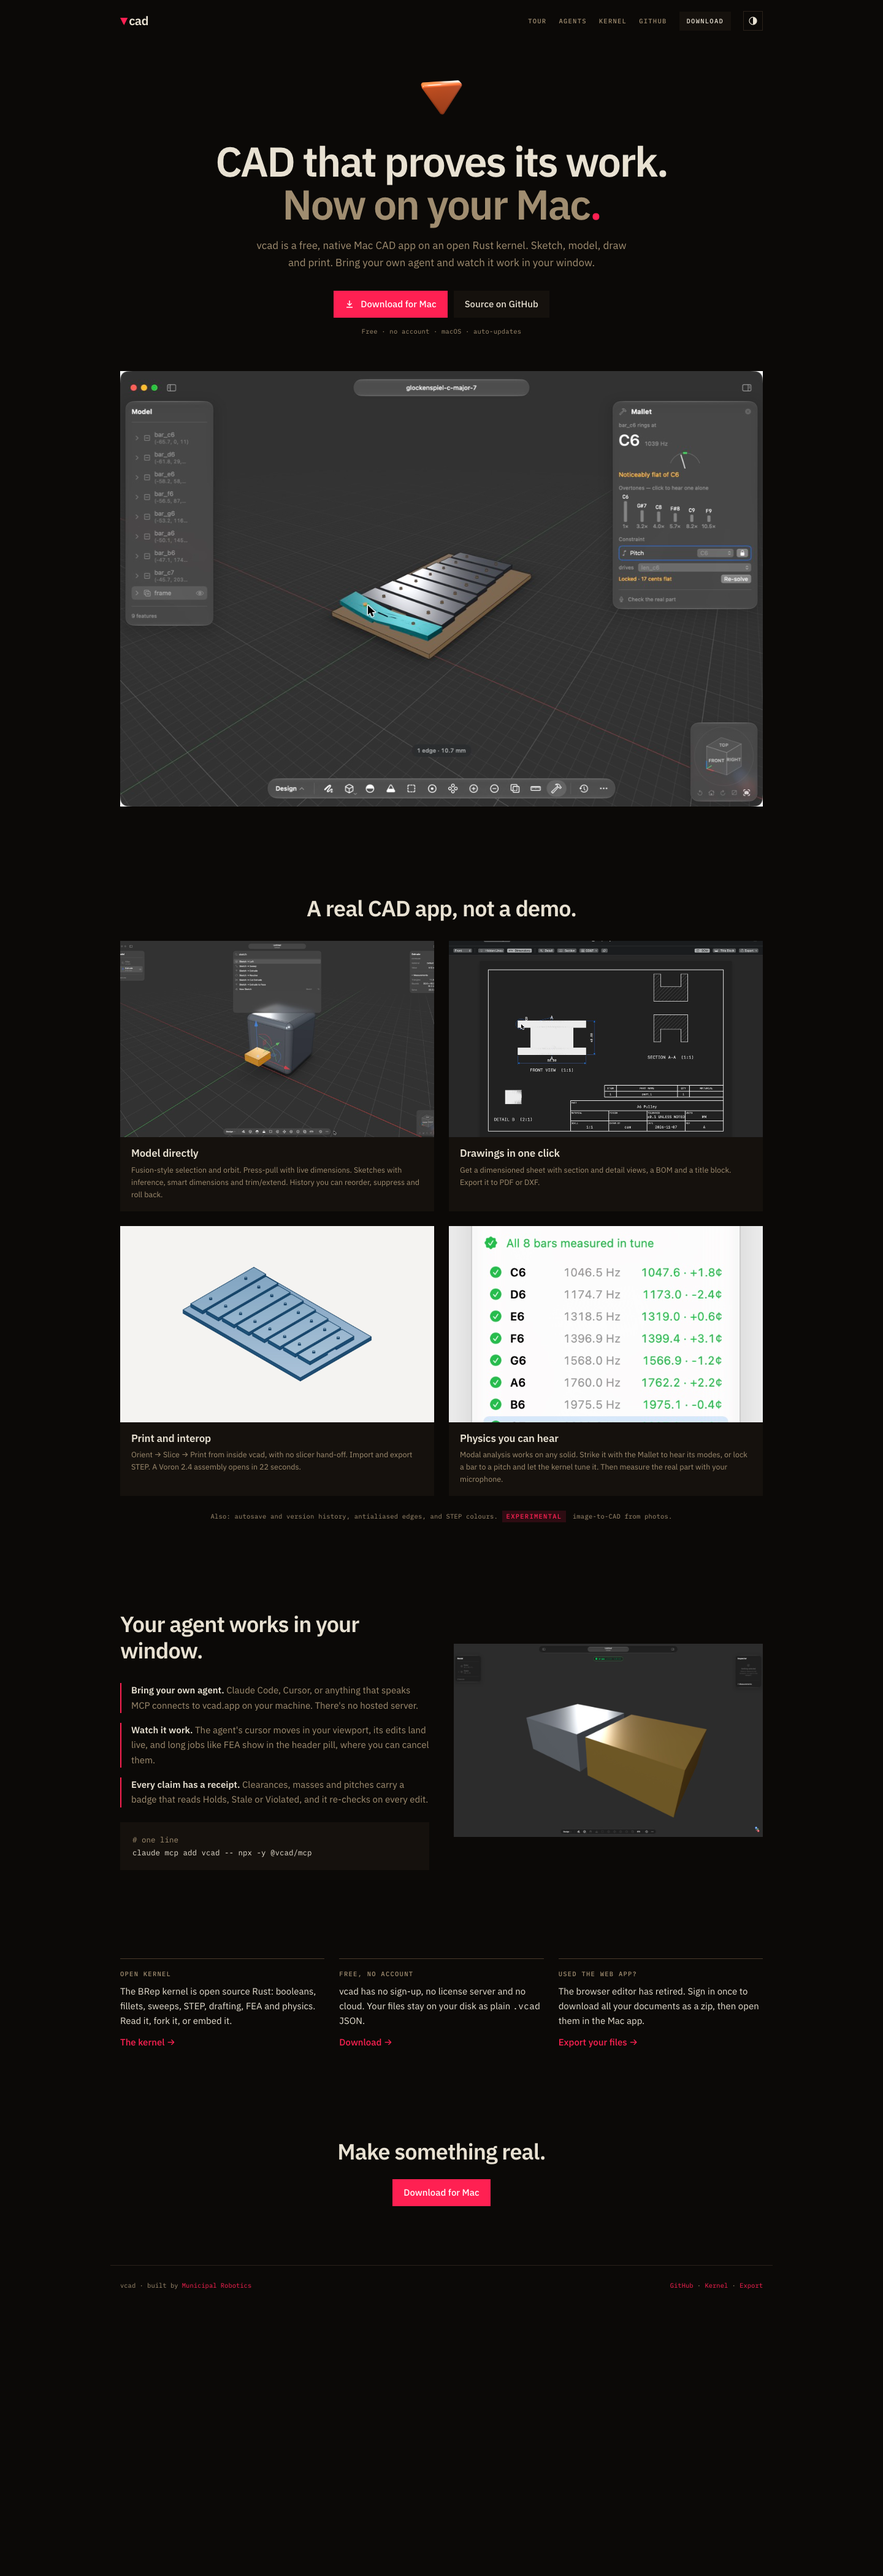
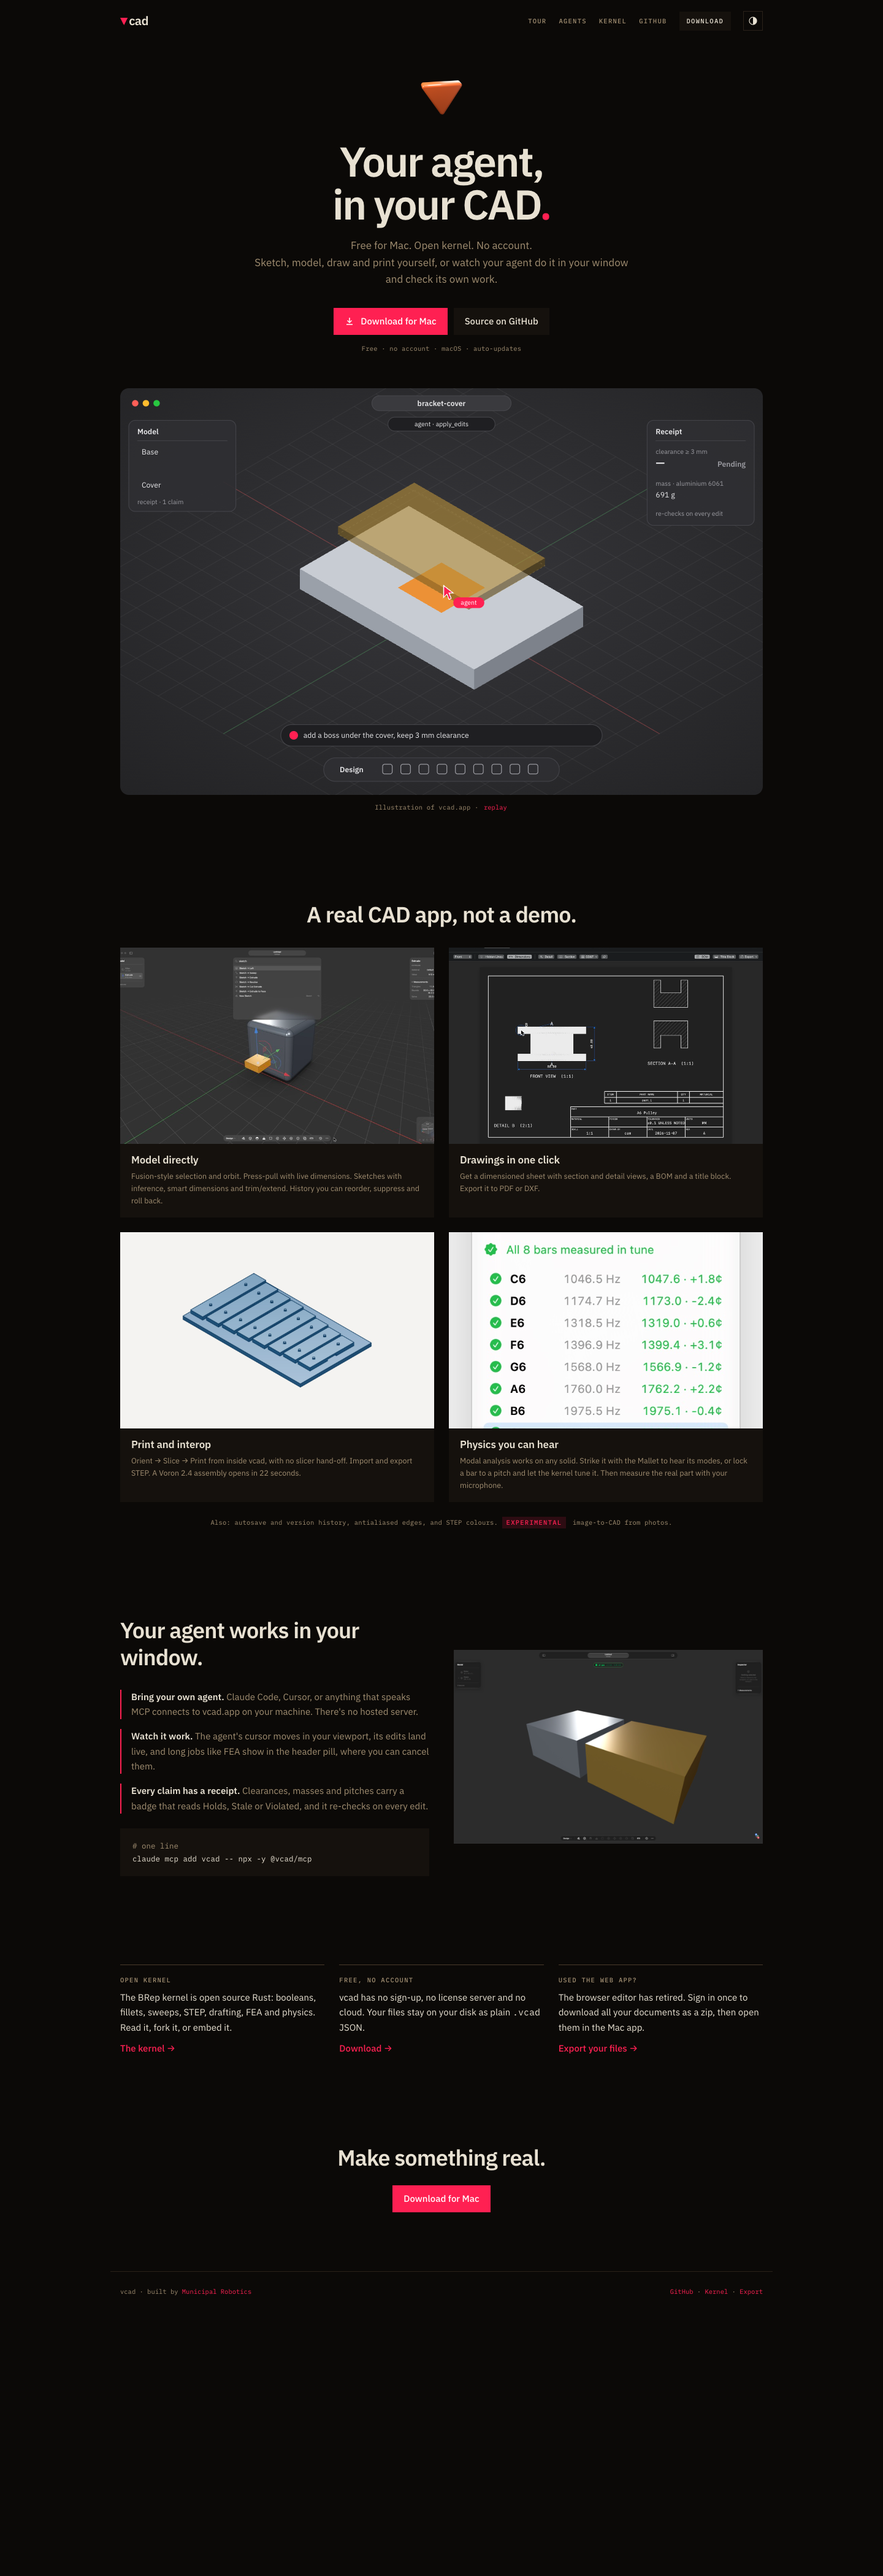
landing: new hook + interactive app hero
Headline is now "Your agent, in your CAD." with "Free for Mac. Open
kernel. No account." The hero screenshot becomes an SVG illustration of
vcad.app: the agent types a request, its cursor selects a face and
press-pulls a boss, and the clearance receipt checks. Then the viewer
drags the arrow (or uses the arrow keys) and the receipt flips between
Holds and Violated. Crops to the model on phones; respects reduced motion.

diff --git a/www/src/hero-app.js b/www/src/hero-app.js
@@ -1,0 +1,300 @@
+// Hero: an interactive illustration of vcad.app.
+// The agent types a request, its cursor selects the top face, press-pulls a boss,
+// and the clearance receipt checks. Then the viewer can drag the boss height
+// and watch the receipt flip between Holds and Violated. Pure SVG, no kernel.
+
+const svg = document.getElementById("heroSvg");
+if (svg) init(svg);
+
+function init(svg) {
+  const NS = "http://www.w3.org/2000/svg";
+  const reduced = matchMedia("(prefers-reduced-motion: reduce)").matches;
+  const el = (tag, attrs = {}, parent = svg, text) => {
+    const n = document.createElementNS(NS, tag);
+    for (const [k, v] of Object.entries(attrs)) n.setAttribute(k, v);
+    if (text != null) n.textContent = text;
+    parent.appendChild(n);
+    return n;
+  };
+
+  // ---- model (mm) --------------------------------------------------------
+  const BASE_H = 16, COVER_Z = 46, MIN_CLEAR = 3, H_MAX = 38, AGENT_H = 26;
+  const clearance = (h) => COVER_Z - (BASE_H + h);
+  const massG = (h) => (160 * 100 * BASE_H + 40 * 40 * h) * 2.7e-3; // aluminium
+
+  // ---- isometric projection ---------------------------------------------
+  const S = 2.35, CX = 600, CY = 410, C30 = Math.cos(Math.PI / 6), S30 = 0.5;
+  const P = (x, y, z) => [CX + (x - y) * C30 * S, CY + (x + y) * S30 * S - z * S];
+  const pts = (a) => a.map((p) => P(...p).map((v) => v.toFixed(1)).join(",")).join(" ");
+  function boxFaces(x, y, z, w, d, h) {
+    return {
+      top: pts([[x, y, z + h], [x + w, y, z + h], [x + w, y + d, z + h], [x, y + d, z + h]]),
+      right: pts([[x + w, y, z], [x + w, y + d, z], [x + w, y + d, z + h], [x + w, y, z + h]]),
+      front: pts([[x, y + d, z], [x + w, y + d, z], [x + w, y + d, z + h], [x, y + d, z + h]]),
+    };
+  }
+
+  // ---- chrome ------------------------------------------------------------
+  const defs = el("defs");
+  const grad = el("radialGradient", { id: "hvBg", cx: "50%", cy: "45%", r: "75%" }, defs);
+  el("stop", { offset: "0", "stop-color": "#36363a" }, grad);
+  el("stop", { offset: "1", "stop-color": "#232325" }, grad);
+  const clip = el("clipPath", { id: "hvClip" }, defs);
+  el("rect", { width: 1200, height: 760, rx: 14 }, clip);
+
+  const root = el("g", { "clip-path": "url(#hvClip)" });
+  el("rect", { width: 1200, height: 760, fill: "url(#hvBg)" }, root);
+
+  // ground grid (iso)
+  const grid = el("g", { stroke: "#ffffff", "stroke-opacity": 0.06, "stroke-width": 1 }, root);
+  for (let i = -200; i <= 200; i += 20) {
+    const [a, b] = [P(i, -200, -0.01), P(i, 200, -0.01)];
+    const [c, d] = [P(-200, i, -0.01), P(200, i, -0.01)];
+    el("line", { x1: a[0], y1: a[1], x2: b[0], y2: b[1] }, grid);
+    el("line", { x1: c[0], y1: c[1], x2: d[0], y2: d[1] }, grid);
+  }
+  { const [a, b] = [P(-200, 0, 0), P(200, 0, 0)]; el("line", { x1: a[0], y1: a[1], x2: b[0], y2: b[1], stroke: "#e5484d", "stroke-opacity": 0.45 }, root); }
+  { const [a, b] = [P(0, -200, 0), P(0, 200, 0)]; el("line", { x1: a[0], y1: a[1], x2: b[0], y2: b[1], stroke: "#46a758", "stroke-opacity": 0.45 }, root); }
+
+  // traffic lights + title pill
+  [["#ff5f57", 28], ["#febc2e", 48], ["#28c840", 68]].forEach(([c, x]) => el("circle", { cx: x, cy: 28, r: 6, fill: c }, root));
+  el("rect", { x: 470, y: 14, width: 260, height: 28, rx: 14, fill: "#3a3a3e", stroke: "#4a4a4f" }, root);
+  el("text", { x: 600, y: 33, "text-anchor": "middle", class: "hv-t hv-b" }, root, "bracket-cover");
+
+  // header pill (agent job)
+  const pill = el("g", { opacity: 0 }, root);
+  const pillBg = el("rect", { x: 500, y: 54, width: 200, height: 26, rx: 13, fill: "#1f1f22", stroke: "#4a4a4f" }, pill);
+  const pillTxt = el("text", { x: 600, y: 71, "text-anchor": "middle", class: "hv-t hv-s" }, pill, "");
+
+  // navigator
+  el("rect", { x: 16, y: 60, width: 200, height: 170, rx: 12, class: "hv-panel" }, root);
+  el("text", { x: 32, y: 86, class: "hv-t hv-b" }, root, "Model");
+  el("line", { x1: 32, y1: 98, x2: 200, y2: 98, stroke: "#4a4a4f" }, root);
+  el("text", { x: 40, y: 124, class: "hv-t" }, root, "Base");
+  const navBoss = el("g", { opacity: 0 }, root);
+  el("rect", { x: 28, y: 136, width: 176, height: 26, rx: 6, fill: "#4a4a50" }, navBoss);
+  el("text", { x: 40, y: 154, class: "hv-t" }, navBoss, "Boss");
+  const navBossDim = el("text", { x: 196, y: 154, "text-anchor": "end", class: "hv-t hv-s hv-dim" }, navBoss, "");
+  el("text", { x: 40, y: 186, class: "hv-t" }, root, "Cover");
+  el("text", { x: 32, y: 216, class: "hv-t hv-s hv-dim" }, root, "receipt · 1 claim");
+
+  // inspector / receipt
+  el("rect", { x: 984, y: 60, width: 200, height: 196, rx: 12, class: "hv-panel" }, root);
+  el("text", { x: 1000, y: 86, class: "hv-t hv-b" }, root, "Receipt");
+  el("line", { x1: 1000, y1: 98, x2: 1168, y2: 98, stroke: "#4a4a4f" }, root);
+  el("text", { x: 1000, y: 122, class: "hv-t hv-s hv-dim" }, root, "clearance ≥ 3 mm");
+  const recVal = el("text", { x: 1000, y: 146, class: "hv-t hv-big" }, root, "—");
+  const recState = el("text", { x: 1168, y: 146, "text-anchor": "end", class: "hv-t hv-b hv-dim" }, root, "Pending");
+  el("text", { x: 1000, y: 182, class: "hv-t hv-s hv-dim" }, root, "mass · aluminium 6061");
+  const massVal = el("text", { x: 1000, y: 204, class: "hv-t" }, root, "");
+  el("text", { x: 1000, y: 238, class: "hv-t hv-s hv-dim" }, root, "re-checks on every edit");
+
+  // viewport badge (top centre, like the live receipt badge)
+  const badge = el("g", { opacity: 0 }, root);
+  const badgeBg = el("rect", { x: 480, y: 96, width: 240, height: 28, rx: 14, fill: "none", "stroke-width": 1.5 }, badge);
+  const badgeTxt = el("text", { x: 600, y: 115, "text-anchor": "middle", class: "hv-t hv-b" }, badge, "");
+
+  // ---- parts -------------------------------------------------------------
+  const scene = el("g", {}, root);
+  const base = boxFaces(-80, -50, 0, 160, 100, BASE_H);
+  const baseTop = el("polygon", { points: base.top, fill: "#c8ccd3" }, scene);
+  el("polygon", { points: base.right, fill: "#7d828b" }, scene);
+  el("polygon", { points: base.front, fill: "#9aa0a9" }, scene);
+  const faceHi = el("polygon", { points: pts([[-20, -20, BASE_H], [20, -20, BASE_H], [20, 20, BASE_H], [-20, 20, BASE_H]]), fill: "#f08a24", opacity: 0 }, scene);
+
+  const boss = el("g", { opacity: 0 }, scene);
+  const bossTop = el("polygon", { fill: "#f5a04b" }, boss);
+  const bossRight = el("polygon", { fill: "#b8661b" }, boss);
+  const bossFront = el("polygon", { fill: "#d67d27" }, boss);
+
+  const cov = boxFaces(-60, -35, COVER_Z, 120, 70, 6);
+  const coverG = el("g", { opacity: 0.62 }, scene);
+  el("polygon", { points: cov.front, fill: "#7a5f22" }, coverG);
+  el("polygon", { points: cov.right, fill: "#5d4818" }, coverG);
+  el("polygon", { points: cov.top, fill: "#b38d3a" }, coverG);
+  // cover underside outline so the gap reads
+  el("polygon", { points: pts([[-60, -35, COVER_Z], [60, -35, COVER_Z], [60, 35, COVER_Z], [-60, 35, COVER_Z]]), fill: "none", stroke: "#d9b45a", "stroke-opacity": 0.5, "stroke-dasharray": "4 4" }, coverG);
+
+  // press-pull arrow + live dimension
+  const handle = el("g", { opacity: 0, class: "hv-handle" }, root);
+  const hLine = el("line", { stroke: "#3d8bff", "stroke-width": 3 }, handle);
+  const hHead = el("polygon", { fill: "#3d8bff" }, handle);
+  const hHit = el("circle", { r: 26, fill: "transparent" }, handle);
+  const dim = el("g", { opacity: 0 }, root);
+  const dimBg = el("rect", { width: 108, height: 26, rx: 6, fill: "#1f1f22", stroke: "#3d8bff" }, dim);
+  const dimTxt = el("text", { class: "hv-t hv-b", "text-anchor": "middle" }, dim, "");
+
+  // agent prompt
+  const prompt = el("g", { opacity: 0 }, root);
+  el("rect", { x: 300, y: 628, width: 600, height: 40, rx: 20, fill: "#1f1f22", stroke: "#4a4a4f" }, prompt);
+  el("circle", { cx: 324, cy: 648, r: 8, fill: "#ff2052" }, prompt);
+  const promptTxt = el("text", { x: 342, y: 653, class: "hv-t" }, prompt, "");
+
+  // toolbar
+  el("rect", { x: 380, y: 690, width: 440, height: 44, rx: 22, class: "hv-panel" }, root);
+  el("text", { x: 410, y: 717, class: "hv-t hv-b" }, root, "Design");
+  for (let i = 0; i < 9; i++) el("rect", { x: 490 + i * 34, y: 702, width: 18, height: 18, rx: 4, fill: "none", stroke: "#9a9aa0", "stroke-width": 1.4 }, root);
+
+  // agent cursor
+  const cursor = el("g", { opacity: 0, transform: "translate(900 560)" }, root);
+  el("path", { d: "M0 0 L0 22 L6 16 L10 26 L14 24 L10 14 L18 14 Z", fill: "#ff2052", stroke: "#fff", "stroke-width": 1.5 }, cursor);
+  el("rect", { x: 18, y: 22, width: 58, height: 20, rx: 10, fill: "#ff2052" }, cursor);
+  el("text", { x: 47, y: 36, "text-anchor": "middle", class: "hv-t hv-s hv-w" }, cursor, "agent");
+
+  // ---- state + render ----------------------------------------------------
+  let h = 0, checked = false;
+  function render() {
+    const f = boxFaces(-20, -20, BASE_H, 40, 40, Math.max(h, 0.01));
+    bossTop.setAttribute("points", f.top);
+    bossRight.setAttribute("points", f.right);
+    bossFront.setAttribute("points", f.front);
+    const [tx, ty] = P(0, 0, BASE_H + h);
+    hLine.setAttribute("x1", tx); hLine.setAttribute("y1", ty);
+    hLine.setAttribute("x2", tx); hLine.setAttribute("y2", ty - 46);
+    hHead.setAttribute("points", `${tx - 8},${ty - 44} ${tx + 8},${ty - 44} ${tx},${ty - 60}`);
+    hHit.setAttribute("cx", tx); hHit.setAttribute("cy", ty - 40);
+    const [dx, dy] = P(20, 20, BASE_H + h / 2);
+    dimBg.setAttribute("x", dx + 26); dimBg.setAttribute("y", dy - 13);
+    dimTxt.setAttribute("x", dx + 80); dimTxt.setAttribute("y", dy + 5);
+    dimTxt.textContent = `h ${h.toFixed(1)} mm`;
+    navBossDim.textContent = `${h.toFixed(1)} mm`;
+    massVal.textContent = `${massG(h).toFixed(0)} g`;
+    if (checked) setReceipt();
+  }
+  function setReceipt() {
+    const c = clearance(h), ok = c >= MIN_CLEAR;
+    const col = ok ? "#3ecf8e" : "#ff4d5e";
+    recVal.textContent = c >= 0 ? `${c.toFixed(2)} mm` : `${(-c).toFixed(2)} mm into`;
+    recVal.setAttribute("fill", col);
+    recState.textContent = ok ? "Holds" : "Violated";
+    recState.setAttribute("fill", col);
+    badgeBg.setAttribute("stroke", col);
+    badgeTxt.setAttribute("fill", col);
+    badgeTxt.textContent = `${ok ? "✓" : "✕"} clearance ≥ 3 mm · ${c.toFixed(2)} mm`;
+  }
+
+  // ---- animation helpers ---------------------------------------------------
+  let run = 0;
+  const alive = (id) => id === run;
+  const sleep = (ms) => new Promise((r) => setTimeout(r, reduced ? 0 : ms));
+  const ease = (t) => (t < 0.5 ? 4 * t * t * t : 1 - Math.pow(-2 * t + 2, 3) / 2);
+  function tween(ms, fn) {
+    if (reduced) { fn(1); return Promise.resolve(); }
+    return new Promise((res) => {
+      const t0 = performance.now();
+      const step = (now) => {
+        const t = Math.min(1, (now - t0) / ms);
+        fn(ease(t));
+        t < 1 ? requestAnimationFrame(step) : res();
+      };
+      requestAnimationFrame(step);
+    });
+  }
+  let cur = [900, 560];
+  const moveCursor = (to, ms) => {
+    const from = cur.slice();
+    return tween(ms, (t) => {
+      cur = [from[0] + (to[0] - from[0]) * t, from[1] + (to[1] - from[1]) * t];
+      cursor.setAttribute("transform", `translate(${cur[0]} ${cur[1]})`);
+    });
+  };
+  const show = (n, on = true) => n.setAttribute("opacity", on ? 1 : 0);
+  const hint = document.getElementById("heroHint");
+
+  async function play() {
+    const id = ++run;
+    h = 0; checked = false; render();
+    [pill, badge, navBoss, boss, handle, dim, cursor].forEach((n) => show(n, false));
+    faceHi.setAttribute("opacity", 0);
+    recVal.textContent = "—"; recVal.removeAttribute("fill");
+    recState.textContent = "Pending"; recState.setAttribute("fill", "#8a8a90");
+    cur = [900, 560]; cursor.setAttribute("transform", "translate(900 560)");
+    hint.textContent = "Illustration of vcad.app";
+    svg.classList.remove("hv-live");
+
+    show(prompt);
+    const ask = "add a boss under the cover, keep 3 mm clearance";
+    promptTxt.textContent = "";
+    if (reduced) promptTxt.textContent = ask;
+    else for (const ch of ask) { if (!alive(id)) return; promptTxt.textContent += ch; await sleep(28); }
+    await sleep(400); if (!alive(id)) return;
+
+    pillTxt.textContent = "agent · apply_edits"; show(pill);
+    show(cursor);
+    const [fx, fy] = P(0, 0, BASE_H);
+    await moveCursor([fx + 4, fy - 4], 900); if (!alive(id)) return;
+    faceHi.setAttribute("opacity", 0.9);
+    await sleep(350); if (!alive(id)) return;
+
+    faceHi.setAttribute("opacity", 0);
+    show(boss); show(navBoss); show(handle); show(dim);
+    const [, startY] = P(0, 0, BASE_H);
+    await tween(1400, (t) => {
+      h = AGENT_H * t; render();
+      cursor.setAttribute("transform", `translate(${fx + 4} ${startY - 44 - h * S})`);
+    });
+    cur = [fx + 4, startY - 44 - h * S];
+    if (!alive(id)) return;
+
+    pillTxt.textContent = "agent · inspect_cad · checking…";
+    await sleep(700); if (!alive(id)) return;
+    checked = true; setReceipt(); show(badge);
+    pillTxt.textContent = "agent · done · 1 claim holds";
+    await moveCursor([860, 600], 800); if (!alive(id)) return;
+    show(cursor, false);
+    await sleep(600); if (!alive(id)) return;
+    show(pill, false);
+    goLive();
+  }
+  function goLive() {
+    checked = true; setReceipt(); render();
+    [boss, navBoss, handle, dim, badge].forEach((n) => show(n));
+    svg.classList.add("hv-live");
+    hint.textContent = "Your turn: drag the blue arrow";
+  }
+
+  // ---- interaction ---------------------------------------------------------
+  const toSvgY = (e) => {
+    const pt = svg.createSVGPoint(); pt.x = e.clientX; pt.y = e.clientY;
+    return pt.matrixTransform(svg.getScreenCTM().inverse()).y;
+  };
+  let drag = null;
+  handle.addEventListener("pointerdown", (e) => {
+    if (!svg.classList.contains("hv-live")) { run++; goLive(); }
+    drag = { y: toSvgY(e), h };
+    handle.setPointerCapture(e.pointerId);
+    e.preventDefault();
+  });
+  handle.addEventListener("pointermove", (e) => {
+    if (!drag) return;
+    h = Math.max(2, Math.min(H_MAX, drag.h - (toSvgY(e) - drag.y) / S));
+    render();
+  });
+  const end = () => { drag = null; };
+  handle.addEventListener("pointerup", end);
+  handle.addEventListener("pointercancel", end);
+  // keyboard: arrow keys nudge the boss once live
+  handle.setAttribute("tabindex", "0");
+  handle.setAttribute("role", "slider");
+  handle.setAttribute("aria-label", "Boss height");
+  handle.addEventListener("keydown", (e) => {
+    const d = { ArrowUp: 1, ArrowRight: 1, ArrowDown: -1, ArrowLeft: -1 }[e.key];
+    if (!d) return;
+    if (!svg.classList.contains("hv-live")) { run++; goLive(); }
+    h = Math.max(2, Math.min(H_MAX, h + d)); render(); e.preventDefault();
+  });
+
+  document.getElementById("heroReplay")?.addEventListener("click", play);
+
+  // phones: crop to the model, badge and prompt (the side panels would be unreadable)
+  const mq = matchMedia("(max-width: 600px)");
+  const fit = () => svg.setAttribute("viewBox", mq.matches ? "270 46 660 714" : "0 0 1200 760");
+  fit(); mq.addEventListener("change", fit);
+
+  // start when visible
+  render();
+  const io = new IntersectionObserver((es) => {
+    if (es.some((x) => x.isIntersecting)) { io.disconnect(); play(); }
+  }, { threshold: 0.3 });
+  io.observe(svg);
+}

diff --git a/www/index.html b/www/index.html
@@ -3,9 +3,9 @@
 <head>
   <meta charset="utf-8" />
   <meta name="viewport" content="width=device-width, initial-scale=1" />
-  <title>vcad for Mac — free, open parametric CAD</title>
+  <title>vcad — your agent, in your CAD</title>
   <meta name="description" content="vcad is a free native Mac CAD app on an open Rust kernel. Bring your own agent over local MCP. No account." />
-  <meta property="og:title" content="vcad for Mac" />
+  <meta property="og:title" content="vcad — your agent, in your CAD" />
   <meta property="og:description" content="Free, open parametric CAD for the Mac. Your agent works in your window, and every claim has a receipt." />
   <meta property="og:url" content="https://vcad.io" />
   <meta name="color-scheme" content="light dark" />
@@ -31,8 +31,8 @@
   <main>
     <section class="hero">
       <img class="hero-icon" src="/shots/icon.png" alt="" width="96" height="96" />
-      <h1>CAD that proves its work.<br><span class="dim">Now on your Mac<span class="dot">.</span></span></h1>
-      <p class="sub">vcad is a free, native Mac CAD app on an open Rust kernel. Sketch, model, draw and print. Bring your own agent and watch it work in your window.</p>
+      <h1>Your agent,<br>in your CAD<span class="dot">.</span></h1>
+      <p class="sub">Free for Mac. Open kernel. No account.<br><span class="dim">Sketch, model, draw and print yourself, or watch your agent do it in your window and check its own work.</span></p>
       <div class="cta-row">
         <a class="btn-primary" href="https://vcad.io/desktop/">
           <svg width="16" height="16" viewBox="0 0 16 16" aria-hidden="true"><path d="M8 2v8m-3.5-3.5L8 10l3.5-3.5M3 13h10" fill="none" stroke="currentColor" stroke-width="1.6"/></svg>
@@ -41,8 +41,9 @@
         <a class="btn-secondary" href="https://github.com/ecto/vcad">Source on GitHub</a>
       </div>
       <p class="mono fine">Free · no account · macOS · auto-updates</p>
-      <figure class="hero-shot">
-        <img src="/shots/mallet.jpg" width="1240" height="840" alt="vcad.app with a tuned glockenspiel. The Mallet panel shows bar C6 ringing at 1039 Hz, 17 cents flat." />
+      <figure class="hero-shot hero-app" id="heroApp">
+        <svg id="heroSvg" viewBox="0 0 1200 760" role="img" aria-labelledby="heroAppDesc"><desc id="heroAppDesc">Animation of vcad.app: an agent adds a boss under a cover, vcad checks a 3 mm clearance receipt, then you can drag the boss height yourself.</desc></svg>
+        <figcaption class="mono fine hero-cap"><span id="heroHint">Illustration of vcad.app</span> · <button id="heroReplay" class="replay">replay</button></figcaption>
       </figure>
     </section>
 
@@ -117,5 +118,6 @@ claude mcp add vcad -- npx -y @vcad/mcp</pre>
     <span>vcad · built by <a href="https://muni.works">Municipal Robotics</a></span>
     <span><a href="https://github.com/ecto/vcad">GitHub</a> · <a href="/kernel/">Kernel</a> · <a href="https://vcad.io/export">Export</a></span>
   </footer>
+  <script type="module" src="/src/hero-app.js"></script>
 </body>
 </html>

diff --git a/www/src/home.css b/www/src/home.css
@@ -110,3 +110,23 @@ a.link { display: inline-block; margin-top: 10px; font-weight: 500; }
   .hero-shot { margin-top: 40px; }
 }
 @media (prefers-reduced-motion: reduce) { html { scroll-behavior: auto; } }
+
+/* interactive app hero — the mock is the app's own dark chrome in both themes */
+.hero-app { background: none; }
+.hero-app svg { display: block; width: 100%; height: auto; border-radius: 14px; user-select: none; -webkit-user-select: none; touch-action: pan-y; }
+.hv-t { font-family: -apple-system, "SF Pro Text", var(--sans); font-size: 14px; fill: #e8e8ea; }
+.hv-s { font-size: 12px; }
+.hv-b { font-weight: 600; }
+.hv-big { font-size: 22px; font-weight: 600; font-variant-numeric: tabular-nums; }
+.hv-dim { fill: #9a9aa0; }
+.hv-w { fill: #fff; }
+.hv-panel { fill: #2e2e32; fill-opacity: .92; stroke: #48484e; }
+.hv-handle { cursor: grab; outline: none; }
+.hv-live .hv-handle line, .hv-live .hv-handle polygon { animation: hv-pulse 1.6s ease-in-out infinite; }
+.hv-handle:focus-visible circle { stroke: #3d8bff; stroke-width: 2; }
+.hv-handle:active { cursor: grabbing; }
+@keyframes hv-pulse { 50% { opacity: .55; } }
+@media (prefers-reduced-motion: reduce) { .hv-live .hv-handle line, .hv-live .hv-handle polygon { animation: none; } }
+.hero-cap { margin-top: 12px; }
+.replay { font: inherit; color: var(--flame-ink); background: none; border: 0; cursor: pointer; padding: 0 2px; }
+.replay:hover { background: var(--flame-ink); color: #fff; }
